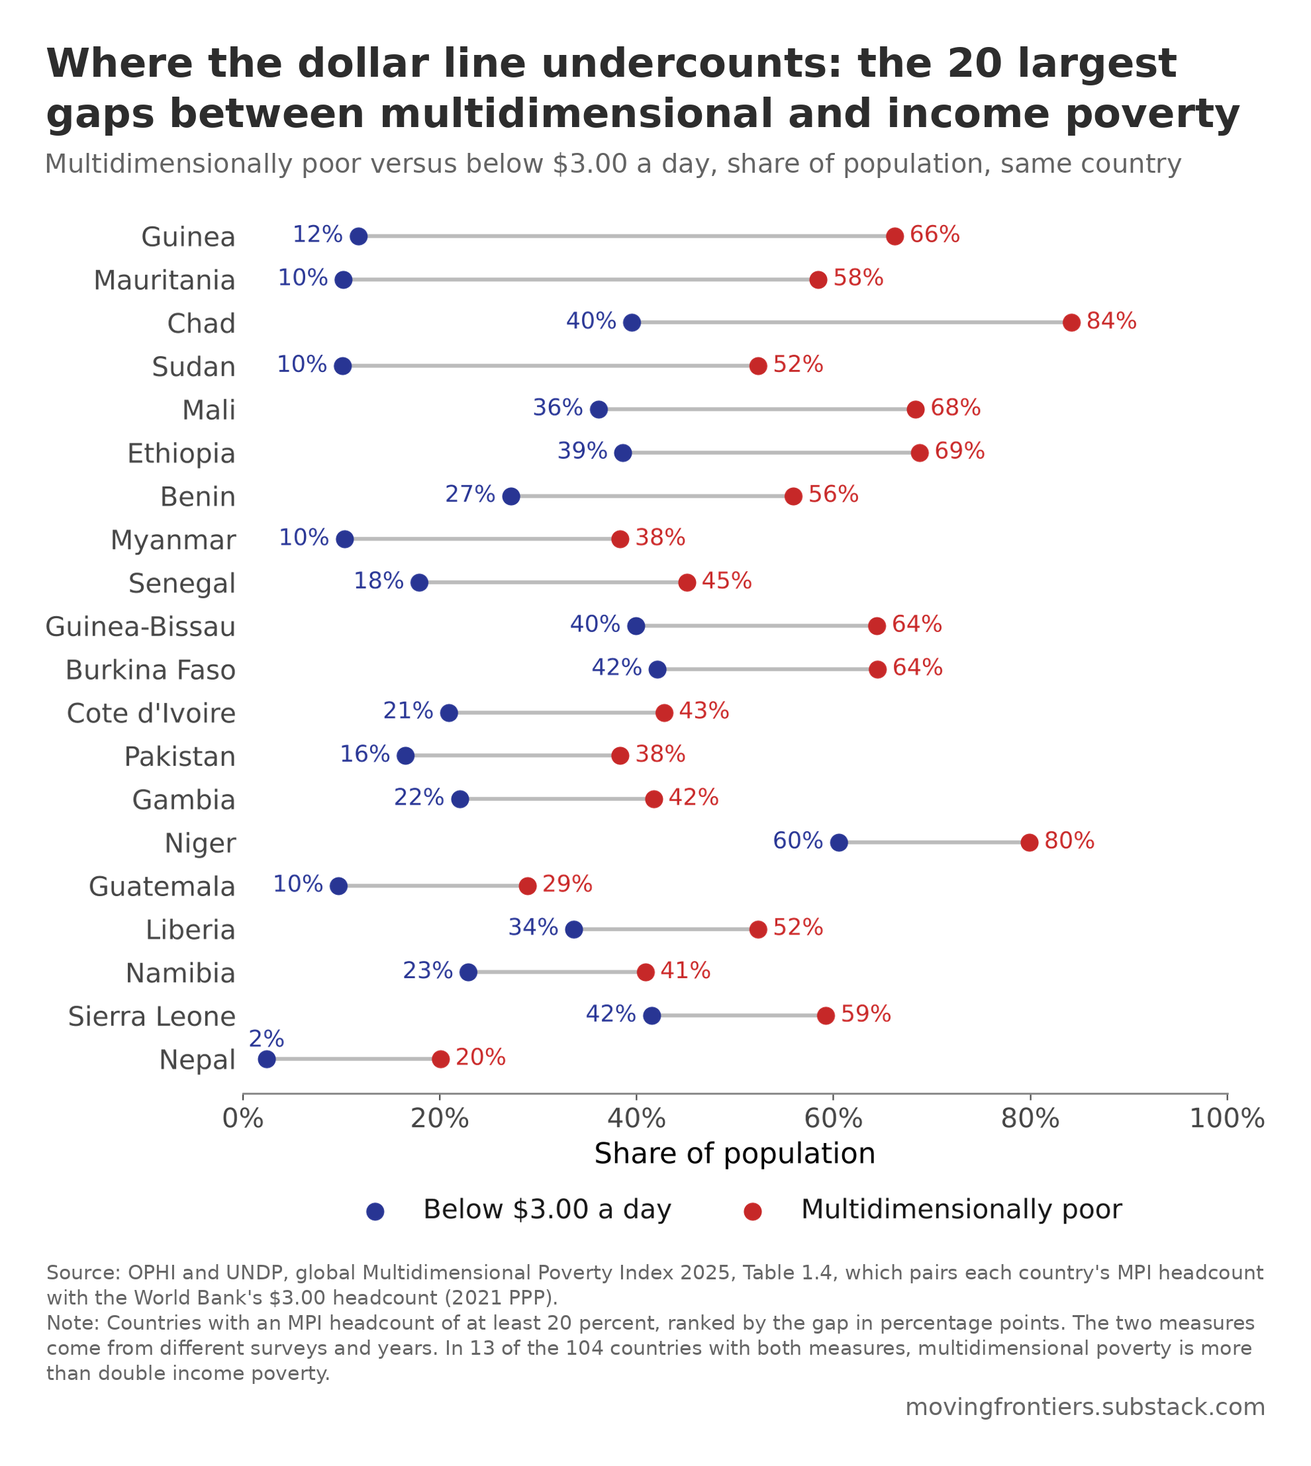
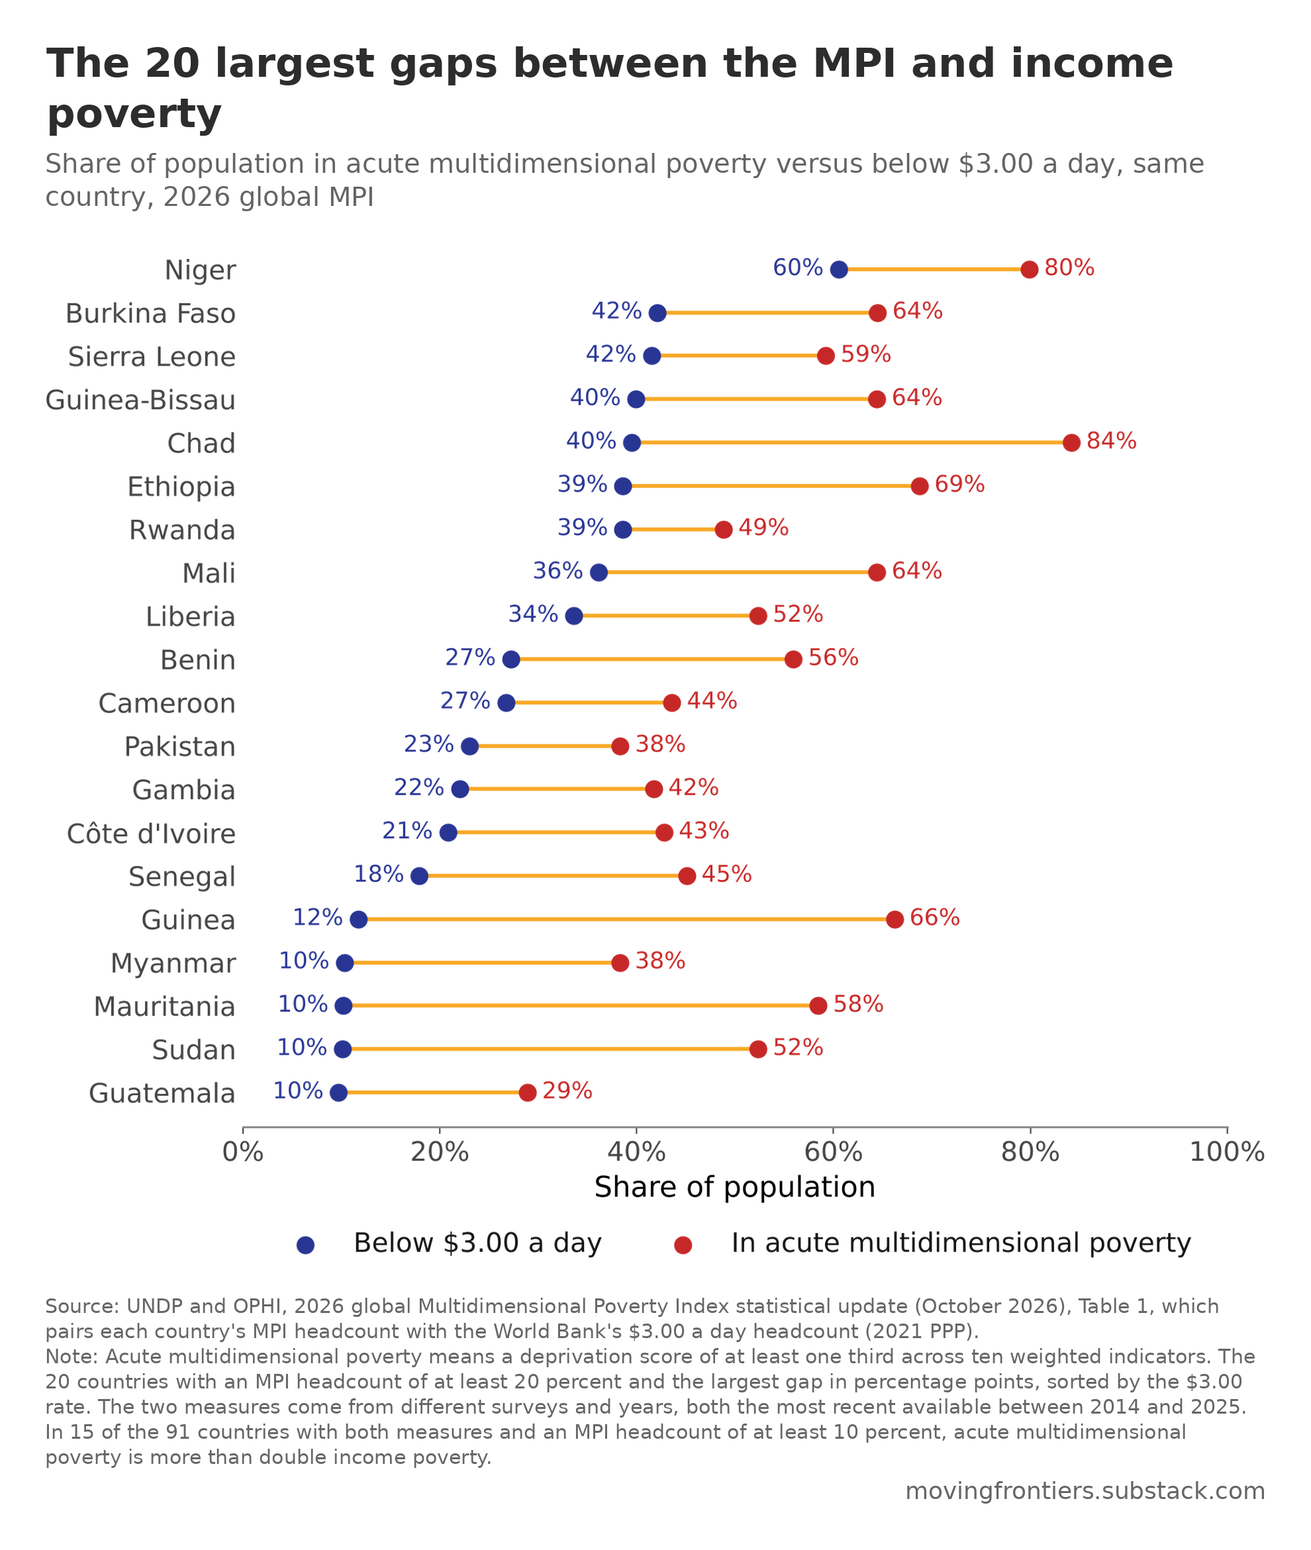
c

diff --git a/20261009-deafening-silence-on-the-poor/chart-4-dollar-line-undercounts.py b/20261009-deafening-silence-on-the-poor/chart-4-dollar-line-undercounts.py
@@ -1,4 +1,4 @@
-"""Chart 4: dollar line undercounts.
+"""Chart 4: dollar line undercounts (2026 global MPI).
 Self-contained: house style and data are embedded. Requires numpy, matplotlib and Pillow.
 Run: python chart-4-dollar-line-undercounts.py  -> writes chart-4-dollar-line-undercounts.png and .csv
 """
@@ -129,40 +129,42 @@ def verify(path, heights):
     print(f"verified {path}: size {a.shape[1]}x{a.shape[0]}, gaps {found}")
 # ---------------------------------------------------------------------------
 
-# OPHI and UNDP global MPI 2025, Table 1.4: MPI headcount and World Bank $3.00 headcount for the same country.
-# The 20 countries with MPI headcount >= 20% and the largest gap, sorted by gap ascending.
-# (country, MPI headcount %, $3.00 headcount %, year of $3.00 estimate)
+# UNDP and OPHI, 2026 global MPI statistical update, Table 1: acute multidimensional poverty headcount and the World Bank
+# $3.00 a day headcount (2021 PPP, WDI, most recent year 2014 to 2025) for the same country.
+# The 20 countries with an MPI headcount of at least 20 percent and the largest gap, sorted by gap ascending.
+# (country, MPI survey, acute MPI headcount %, $3.00 headcount %)
 DATA = [
-    ('Nepal', 20.07, 2.40, '2022'),
-    ('Sierra Leone', 59.22, 41.50, '2018'),
-    ('Namibia', 40.88, 22.90, '2015'),
-    ('Liberia', 52.32, 33.60, '2016'),
-    ('Guatemala', 28.88, 9.70, '2023'),
-    ('Niger', 79.89, 60.50, '2021'),
-    ('Gambia', 41.71, 22.00, '2020'),
-    ('Pakistan', 38.33, 16.50, '2018'),
-    ("Cote d'Ivoire", 42.77, 20.90, '2021'),
-    ('Burkina Faso', 64.47, 42.10, '2021'),
-    ('Guinea-Bissau', 64.40, 39.90, '2021'),
-    ('Senegal', 45.08, 17.90, '2021'),
-    ('Myanmar', 38.32, 10.30, '2017'),
-    ('Benin', 55.92, 27.20, '2021'),
-    ('Ethiopia', 68.74, 38.60, '2021'),
-    ('Mali', 68.33, 36.10, '2021'),
-    ('Sudan', 52.33, 10.10, '2014'),
-    ('Chad', 84.17, 39.50, '2022'),
-    ('Mauritania', 58.45, 10.20, '2019'),
-    ('Guinea', 66.21, 11.70, '2018')
+    ('Rwanda', '2019/2020 D', 48.82, 38.6),
+    ('Pakistan', '2017/2018 D', 38.33, 23.0),
+    ('Cameroon', '2018 D', 43.59, 26.7),
+    ('Sierra Leone', '2019 D', 59.22, 41.5),
+    ('Liberia', '2019/2020 D', 52.32, 33.6),
+    ('Guatemala', '2014/2015 D', 28.88, 9.7),
+    ('Niger', '2021 N', 79.89, 60.5),
+    ('Gambia', '2019/2020 D', 41.71, 22.0),
+    ("Côte d'Ivoire", '2021 D', 42.77, 20.8),
+    ('Burkina Faso', '2021 D', 64.47, 42.1),
+    ('Guinea-Bissau', '2018/2019 M', 64.40, 39.9),
+    ('Senegal', '2023 D', 45.08, 17.9),
+    ('Myanmar', '2015/2016 D', 38.32, 10.3),
+    ('Mali', '2023/2024 D', 64.40, 36.1),
+    ('Benin', '2021/2022 M', 55.92, 27.2),
+    ('Ethiopia', '2019 D', 68.74, 38.6),
+    ('Sudan', '2014 M', 52.33, 10.1),
+    ('Chad', '2019 M', 84.17, 39.5),
+    ('Mauritania', '2019/2021 D', 58.45, 10.2),
+    ('Guinea', '2018 D', 66.21, 11.7)
 ]
-N_DOUBLE, N_BOTH = 13, 104   # countries (of all with both measures, H >= 10%) where MPI > 2x $3.00 rate
-
-labels = [r[0] for r in DATA]; H = [r[1] for r in DATA]; h3 = [r[2] for r in DATA]
+N_DOUBLE, N_BOTH = 15, 91   # countries (of all with both measures, MPI headcount >= 10%) where MPI > 2x $3.00 rate
+short = {"Congo (Democratic Republic of the)": "DR Congo", "Tanzania (United Republic of)": "Tanzania", "Central African Republic": "Central African Rep."}
+DATA = sorted(DATA, key=lambda r: r[3])   # plotted from the lowest $3.00 rate at the bottom to the highest at the top
+labels = [short.get(r[0], r[0]) for r in DATA]; H = [r[2] for r in DATA]; h3 = [r[3] for r in DATA]
 fig = new_figure(9.2, 8.4)
 ax = fig.add_subplot(111)
 y = list(range(len(DATA)))
-ax.hlines(y, h3, H, color="#BBBBBB", lw=2, zorder=1)
+ax.hlines(y, h3, H, color=GOLD, lw=2, zorder=1)
 ax.scatter(h3, y, color=BLUE, s=70, zorder=3, label="Below $3.00 a day")
-ax.scatter(H, y, color=RED, s=70, zorder=3, label="Multidimensionally poor")
+ax.scatter(H, y, color=RED, s=70, zorder=3, label="In acute multidimensional poverty")
 for yy, a, b in zip(y, h3, H):
     ax.text(b + 1.5, yy, f"{b:.0f}%", va="center", ha="left", fontsize=12, color=RED)
     if a >= 6:
@@ -177,10 +179,10 @@ ax.tick_params(axis="y", length=0); ax.spines["left"].set_visible(False)
 ax.legend(loc="upper center", bbox_to_anchor=(0.5, -0.09), ncol=2, frameon=False)
 
 compose(render_plot(fig),
-        title="Where the dollar line undercounts: the 20 largest gaps between multidimensional and income poverty",
-        subtitle="Multidimensionally poor versus below $3.00 a day, share of population, same country",
-        source="OPHI and UNDP, global Multidimensional Poverty Index 2025, Table 1.4, which pairs each country's MPI headcount with the World Bank's $3.00 headcount (2021 PPP).",
-        note=f"Countries with an MPI headcount of at least 20 percent, ranked by the gap in percentage points. The two measures come from different surveys and years. In {N_DOUBLE} of the {N_BOTH} countries with both measures, multidimensional poverty is more than double income poverty.",
+        title="The 20 largest gaps between the MPI and income poverty",
+        subtitle="Share of population in acute multidimensional poverty versus below $3.00 a day, same country, 2026 global MPI",
+        source="UNDP and OPHI, 2026 global Multidimensional Poverty Index statistical update (October 2026), Table 1, which pairs each country's MPI headcount with the World Bank's $3.00 a day headcount (2021 PPP).",
+        note=f"Acute multidimensional poverty means a deprivation score of at least one third across ten weighted indicators. The 20 countries with an MPI headcount of at least 20 percent and the largest gap in percentage points, sorted by the $3.00 rate. The two measures come from different surveys and years, both the most recent available between 2014 and 2025. In {N_DOUBLE} of the {N_BOTH} countries with both measures and an MPI headcount of at least 10 percent, acute multidimensional poverty is more than double income poverty.",
         out="chart-4-dollar-line-undercounts.png", csv="chart-4-dollar-line-undercounts.csv",
-        csv_rows=[["country", "mpi_headcount_pct", "below_3_dollars_pct", "year_of_3_dollar_estimate", "gap_pp"]]
-                 + [[r[0], r[1], r[2], r[3], round(r[1] - r[2], 2)] for r in DATA])
+        csv_rows=[["country", "mpi_survey", "acute_mpi_headcount_pct", "below_3_dollars_pct", "gap_pp"]]
+                 + [[r[0], r[1], r[2], r[3], round(r[2] - r[3], 2)] for r in DATA])

diff --git a/scripts/chart-4-dollar-line-undercounts.py b/scripts/chart-4-dollar-line-undercounts.py
@@ -1,4 +1,4 @@
-"""Chart 4: dollar line undercounts.
+"""Chart 4: dollar line undercounts (2026 global MPI).
 Self-contained: house style and data are embedded. Requires numpy, matplotlib and Pillow.
 Run: python chart-4-dollar-line-undercounts.py  -> writes chart-4-dollar-line-undercounts.png and .csv
 """
@@ -129,40 +129,42 @@ def verify(path, heights):
     print(f"verified {path}: size {a.shape[1]}x{a.shape[0]}, gaps {found}")
 # ---------------------------------------------------------------------------
 
-# OPHI and UNDP global MPI 2025, Table 1.4: MPI headcount and World Bank $3.00 headcount for the same country.
-# The 20 countries with MPI headcount >= 20% and the largest gap, sorted by gap ascending.
-# (country, MPI headcount %, $3.00 headcount %, year of $3.00 estimate)
+# UNDP and OPHI, 2026 global MPI statistical update, Table 1: acute multidimensional poverty headcount and the World Bank
+# $3.00 a day headcount (2021 PPP, WDI, most recent year 2014 to 2025) for the same country.
+# The 20 countries with an MPI headcount of at least 20 percent and the largest gap, sorted by gap ascending.
+# (country, MPI survey, acute MPI headcount %, $3.00 headcount %)
 DATA = [
-    ('Nepal', 20.07, 2.40, '2022'),
-    ('Sierra Leone', 59.22, 41.50, '2018'),
-    ('Namibia', 40.88, 22.90, '2015'),
-    ('Liberia', 52.32, 33.60, '2016'),
-    ('Guatemala', 28.88, 9.70, '2023'),
-    ('Niger', 79.89, 60.50, '2021'),
-    ('Gambia', 41.71, 22.00, '2020'),
-    ('Pakistan', 38.33, 16.50, '2018'),
-    ("Cote d'Ivoire", 42.77, 20.90, '2021'),
-    ('Burkina Faso', 64.47, 42.10, '2021'),
-    ('Guinea-Bissau', 64.40, 39.90, '2021'),
-    ('Senegal', 45.08, 17.90, '2021'),
-    ('Myanmar', 38.32, 10.30, '2017'),
-    ('Benin', 55.92, 27.20, '2021'),
-    ('Ethiopia', 68.74, 38.60, '2021'),
-    ('Mali', 68.33, 36.10, '2021'),
-    ('Sudan', 52.33, 10.10, '2014'),
-    ('Chad', 84.17, 39.50, '2022'),
-    ('Mauritania', 58.45, 10.20, '2019'),
-    ('Guinea', 66.21, 11.70, '2018')
+    ('Rwanda', '2019/2020 D', 48.82, 38.6),
+    ('Pakistan', '2017/2018 D', 38.33, 23.0),
+    ('Cameroon', '2018 D', 43.59, 26.7),
+    ('Sierra Leone', '2019 D', 59.22, 41.5),
+    ('Liberia', '2019/2020 D', 52.32, 33.6),
+    ('Guatemala', '2014/2015 D', 28.88, 9.7),
+    ('Niger', '2021 N', 79.89, 60.5),
+    ('Gambia', '2019/2020 D', 41.71, 22.0),
+    ("Côte d'Ivoire", '2021 D', 42.77, 20.8),
+    ('Burkina Faso', '2021 D', 64.47, 42.1),
+    ('Guinea-Bissau', '2018/2019 M', 64.40, 39.9),
+    ('Senegal', '2023 D', 45.08, 17.9),
+    ('Myanmar', '2015/2016 D', 38.32, 10.3),
+    ('Mali', '2023/2024 D', 64.40, 36.1),
+    ('Benin', '2021/2022 M', 55.92, 27.2),
+    ('Ethiopia', '2019 D', 68.74, 38.6),
+    ('Sudan', '2014 M', 52.33, 10.1),
+    ('Chad', '2019 M', 84.17, 39.5),
+    ('Mauritania', '2019/2021 D', 58.45, 10.2),
+    ('Guinea', '2018 D', 66.21, 11.7)
 ]
-N_DOUBLE, N_BOTH = 13, 104   # countries (of all with both measures, H >= 10%) where MPI > 2x $3.00 rate
-
-labels = [r[0] for r in DATA]; H = [r[1] for r in DATA]; h3 = [r[2] for r in DATA]
+N_DOUBLE, N_BOTH = 15, 91   # countries (of all with both measures, MPI headcount >= 10%) where MPI > 2x $3.00 rate
+short = {"Congo (Democratic Republic of the)": "DR Congo", "Tanzania (United Republic of)": "Tanzania", "Central African Republic": "Central African Rep."}
+DATA = sorted(DATA, key=lambda r: r[3])   # plotted from the lowest $3.00 rate at the bottom to the highest at the top
+labels = [short.get(r[0], r[0]) for r in DATA]; H = [r[2] for r in DATA]; h3 = [r[3] for r in DATA]
 fig = new_figure(9.2, 8.4)
 ax = fig.add_subplot(111)
 y = list(range(len(DATA)))
-ax.hlines(y, h3, H, color="#BBBBBB", lw=2, zorder=1)
+ax.hlines(y, h3, H, color=GOLD, lw=2, zorder=1)
 ax.scatter(h3, y, color=BLUE, s=70, zorder=3, label="Below $3.00 a day")
-ax.scatter(H, y, color=RED, s=70, zorder=3, label="Multidimensionally poor")
+ax.scatter(H, y, color=RED, s=70, zorder=3, label="In acute multidimensional poverty")
 for yy, a, b in zip(y, h3, H):
     ax.text(b + 1.5, yy, f"{b:.0f}%", va="center", ha="left", fontsize=12, color=RED)
     if a >= 6:
@@ -177,10 +179,10 @@ ax.tick_params(axis="y", length=0); ax.spines["left"].set_visible(False)
 ax.legend(loc="upper center", bbox_to_anchor=(0.5, -0.09), ncol=2, frameon=False)
 
 compose(render_plot(fig),
-        title="Where the dollar line undercounts: the 20 largest gaps between multidimensional and income poverty",
-        subtitle="Multidimensionally poor versus below $3.00 a day, share of population, same country",
-        source="OPHI and UNDP, global Multidimensional Poverty Index 2025, Table 1.4, which pairs each country's MPI headcount with the World Bank's $3.00 headcount (2021 PPP).",
-        note=f"Countries with an MPI headcount of at least 20 percent, ranked by the gap in percentage points. The two measures come from different surveys and years. In {N_DOUBLE} of the {N_BOTH} countries with both measures, multidimensional poverty is more than double income poverty.",
+        title="The 20 largest gaps between the MPI and income poverty",
+        subtitle="Share of population in acute multidimensional poverty versus below $3.00 a day, same country, 2026 global MPI",
+        source="UNDP and OPHI, 2026 global Multidimensional Poverty Index statistical update (October 2026), Table 1, which pairs each country's MPI headcount with the World Bank's $3.00 a day headcount (2021 PPP).",
+        note=f"Acute multidimensional poverty means a deprivation score of at least one third across ten weighted indicators. The 20 countries with an MPI headcount of at least 20 percent and the largest gap in percentage points, sorted by the $3.00 rate. The two measures come from different surveys and years, both the most recent available between 2014 and 2025. In {N_DOUBLE} of the {N_BOTH} countries with both measures and an MPI headcount of at least 10 percent, acute multidimensional poverty is more than double income poverty.",
         out="chart-4-dollar-line-undercounts.png", csv="chart-4-dollar-line-undercounts.csv",
-        csv_rows=[["country", "mpi_headcount_pct", "below_3_dollars_pct", "year_of_3_dollar_estimate", "gap_pp"]]
-                 + [[r[0], r[1], r[2], r[3], round(r[1] - r[2], 2)] for r in DATA])
+        csv_rows=[["country", "mpi_survey", "acute_mpi_headcount_pct", "below_3_dollars_pct", "gap_pp"]]
+                 + [[r[0], r[1], r[2], r[3], round(r[2] - r[3], 2)] for r in DATA])

diff --git a/20261009-deafening-silence-on-the-poor/chart-3-multidimensional-poverty.py b/20261009-deafening-silence-on-the-poor/chart-3-multidimensional-poverty.py
@@ -1,6 +1,6 @@
-"""Chart 3: multidimensional poverty.
+"""Chart 3: multidimensional poverty (2026 global MPI).
 Self-contained: house style and data are embedded. Requires numpy, matplotlib and Pillow.
-Run: python chart-3-multidimensional-poverty.py  -> writes chart-3-multidimensional-poverty.png and chart-3-multidimensional-poverty.csv
+Run: python chart-3-multidimensional-poverty.py  -> writes chart-3-multidimensional-poverty.png and .csv
 """
 # ---- Moving Frontiers house style (inlined) -------------------------------
 # Plot in matplotlib on a transparent canvas, then compose() lays out title,
@@ -129,14 +129,17 @@ def verify(path, heights):
     print(f"verified {path}: size {a.shape[1]}x{a.shape[0]}, gaps {found}")
 # ---------------------------------------------------------------------------
 
-# 2025 Global MPI (UNDP and OPHI, October 2025). Millions of people.
+# UNDP and OPHI, 2026 global MPI statistical update (12 October 2026), Table 1. Millions of people, headcounts applied
+# to 2024 population (the table's own projection). Severe, Sub-Saharan Africa, South Asia and middle-income figures are
+# own sums of the country rows; children from the UNDP release (51.5 percent of the poor).
+TOTAL = 1198      # people in acute multidimensional poverty, deprivation score of one third or more
 rows = [
-    ("All multidimensionally poor", 1100, BLUE),
-    ("Live in regions exposed to a climate hazard", 887, RED),
-    ("Live in middle-income countries", 740, GOLD),
-    ("Are children under 18", 586, RED),
-    ("Live in Sub-Saharan Africa", 565, GOLD),
-    ("Live in South Asia", 390, GOLD),
+    ("All in acute multidimensional poverty", TOTAL, BLUE),
+    ("Live in middle-income countries", 779, GOLD),
+    ("Are children under 18", 617, RED),
+    ("Live in Sub-Saharan Africa", 616, GOLD),
+    ("Are in severe multidimensional poverty", 534, RED),
+    ("Live in South Asia", 393, GOLD),
 ]
 labels = [r[0] for r in rows][::-1]
 vals = [r[1] for r in rows][::-1]
@@ -147,7 +150,7 @@ ax = fig.add_subplot(111)
 bars = ax.barh(labels, vals, color=cols, height=0.62)
 for b, v in zip(bars, vals):
     ax.text(v + 15, b.get_y() + b.get_height() / 2, f"{v:,}", va="center", ha="left", fontsize=14, color=INK, fontweight="bold")
-ax.set_xlim(0, 1250)
+ax.set_xlim(0, 1350)
 ax.set_xticks(range(0, 1201, 300))
 ax.set_xticklabels([f"{v:,}" for v in range(0, 1201, 300)])
 ax.set_xlabel("Millions of people")
@@ -155,9 +158,9 @@ ax.tick_params(axis="y", length=0)
 ax.spines["left"].set_visible(False)
 
 compose(render_plot(fig),
-        title="Multidimensional poverty: 1.1 billion people, half of them children",
-        subtitle="People in acute multidimensional poverty, millions, 109 countries, 2025 index",
-        source="UNDP and OPHI, 2025 Global Multidimensional Poverty Index (October 2025).",
-        note="The MPI counts people deprived in at least a third of ten weighted indicators across health, education and living standards, using the most recent survey available for each country. Categories overlap and do not sum to the total. Climate hazard exposure refers to subnational regions facing at least one of high heat, drought, floods or air pollution.",
+        title="Acute multidimensional poverty: 1.2 billion people, half of them children, and rising for the first time",
+        subtitle="People in acute multidimensional poverty, millions, 108 countries, 2026 global MPI",
+        source="UNDP and OPHI, 2026 global Multidimensional Poverty Index statistical update (October 2026), Table 1; children from the UNDP release.",
+        note="Acute multidimensional poverty means a deprivation score of at least one third across ten weighted indicators of health, education and living standards; severe means a score of one half or more and is a subset of the total. Headcounts from the latest survey for each country (2014 to 2025) are applied to 2024 population. Categories overlap and do not sum to the total. Income groups follow the World Bank FY27 classification. UNDP reports that the number in acute multidimensional poverty rose in 2026 for the first time since the index began in 2010.",
         out="chart-3-multidimensional-poverty.png", csv="chart-3-multidimensional-poverty.csv",
-        csv_rows=[["group", "poor_millions"]] + [[r[0], r[1]] for r in rows])
+        csv_rows=[["group", "poor_millions_2024_population"]] + [[r[0], r[1]] for r in rows])

diff --git a/scripts/chart-3-multidimensional-poverty.py b/scripts/chart-3-multidimensional-poverty.py
@@ -1,6 +1,6 @@
-"""Chart 3: multidimensional poverty.
+"""Chart 3: multidimensional poverty (2026 global MPI).
 Self-contained: house style and data are embedded. Requires numpy, matplotlib and Pillow.
-Run: python chart-3-multidimensional-poverty.py  -> writes chart-3-multidimensional-poverty.png and chart-3-multidimensional-poverty.csv
+Run: python chart-3-multidimensional-poverty.py  -> writes chart-3-multidimensional-poverty.png and .csv
 """
 # ---- Moving Frontiers house style (inlined) -------------------------------
 # Plot in matplotlib on a transparent canvas, then compose() lays out title,
@@ -129,14 +129,17 @@ def verify(path, heights):
     print(f"verified {path}: size {a.shape[1]}x{a.shape[0]}, gaps {found}")
 # ---------------------------------------------------------------------------
 
-# 2025 Global MPI (UNDP and OPHI, October 2025). Millions of people.
+# UNDP and OPHI, 2026 global MPI statistical update (12 October 2026), Table 1. Millions of people, headcounts applied
+# to 2024 population (the table's own projection). Severe, Sub-Saharan Africa, South Asia and middle-income figures are
+# own sums of the country rows; children from the UNDP release (51.5 percent of the poor).
+TOTAL = 1198      # people in acute multidimensional poverty, deprivation score of one third or more
 rows = [
-    ("All multidimensionally poor", 1100, BLUE),
-    ("Live in regions exposed to a climate hazard", 887, RED),
-    ("Live in middle-income countries", 740, GOLD),
-    ("Are children under 18", 586, RED),
-    ("Live in Sub-Saharan Africa", 565, GOLD),
-    ("Live in South Asia", 390, GOLD),
+    ("All in acute multidimensional poverty", TOTAL, BLUE),
+    ("Live in middle-income countries", 779, GOLD),
+    ("Are children under 18", 617, RED),
+    ("Live in Sub-Saharan Africa", 616, GOLD),
+    ("Are in severe multidimensional poverty", 534, RED),
+    ("Live in South Asia", 393, GOLD),
 ]
 labels = [r[0] for r in rows][::-1]
 vals = [r[1] for r in rows][::-1]
@@ -147,7 +150,7 @@ ax = fig.add_subplot(111)
 bars = ax.barh(labels, vals, color=cols, height=0.62)
 for b, v in zip(bars, vals):
     ax.text(v + 15, b.get_y() + b.get_height() / 2, f"{v:,}", va="center", ha="left", fontsize=14, color=INK, fontweight="bold")
-ax.set_xlim(0, 1250)
+ax.set_xlim(0, 1350)
 ax.set_xticks(range(0, 1201, 300))
 ax.set_xticklabels([f"{v:,}" for v in range(0, 1201, 300)])
 ax.set_xlabel("Millions of people")
@@ -155,9 +158,9 @@ ax.tick_params(axis="y", length=0)
 ax.spines["left"].set_visible(False)
 
 compose(render_plot(fig),
-        title="Multidimensional poverty: 1.1 billion people, half of them children",
-        subtitle="People in acute multidimensional poverty, millions, 109 countries, 2025 index",
-        source="UNDP and OPHI, 2025 Global Multidimensional Poverty Index (October 2025).",
-        note="The MPI counts people deprived in at least a third of ten weighted indicators across health, education and living standards, using the most recent survey available for each country. Categories overlap and do not sum to the total. Climate hazard exposure refers to subnational regions facing at least one of high heat, drought, floods or air pollution.",
+        title="Acute multidimensional poverty: 1.2 billion people, half of them children, and rising for the first time",
+        subtitle="People in acute multidimensional poverty, millions, 108 countries, 2026 global MPI",
+        source="UNDP and OPHI, 2026 global Multidimensional Poverty Index statistical update (October 2026), Table 1; children from the UNDP release.",
+        note="Acute multidimensional poverty means a deprivation score of at least one third across ten weighted indicators of health, education and living standards; severe means a score of one half or more and is a subset of the total. Headcounts from the latest survey for each country (2014 to 2025) are applied to 2024 population. Categories overlap and do not sum to the total. Income groups follow the World Bank FY27 classification. UNDP reports that the number in acute multidimensional poverty rose in 2026 for the first time since the index began in 2010.",
         out="chart-3-multidimensional-poverty.png", csv="chart-3-multidimensional-poverty.csv",
-        csv_rows=[["group", "poor_millions"]] + [[r[0], r[1]] for r in rows])
+        csv_rows=[["group", "poor_millions_2024_population"]] + [[r[0], r[1]] for r in rows])
